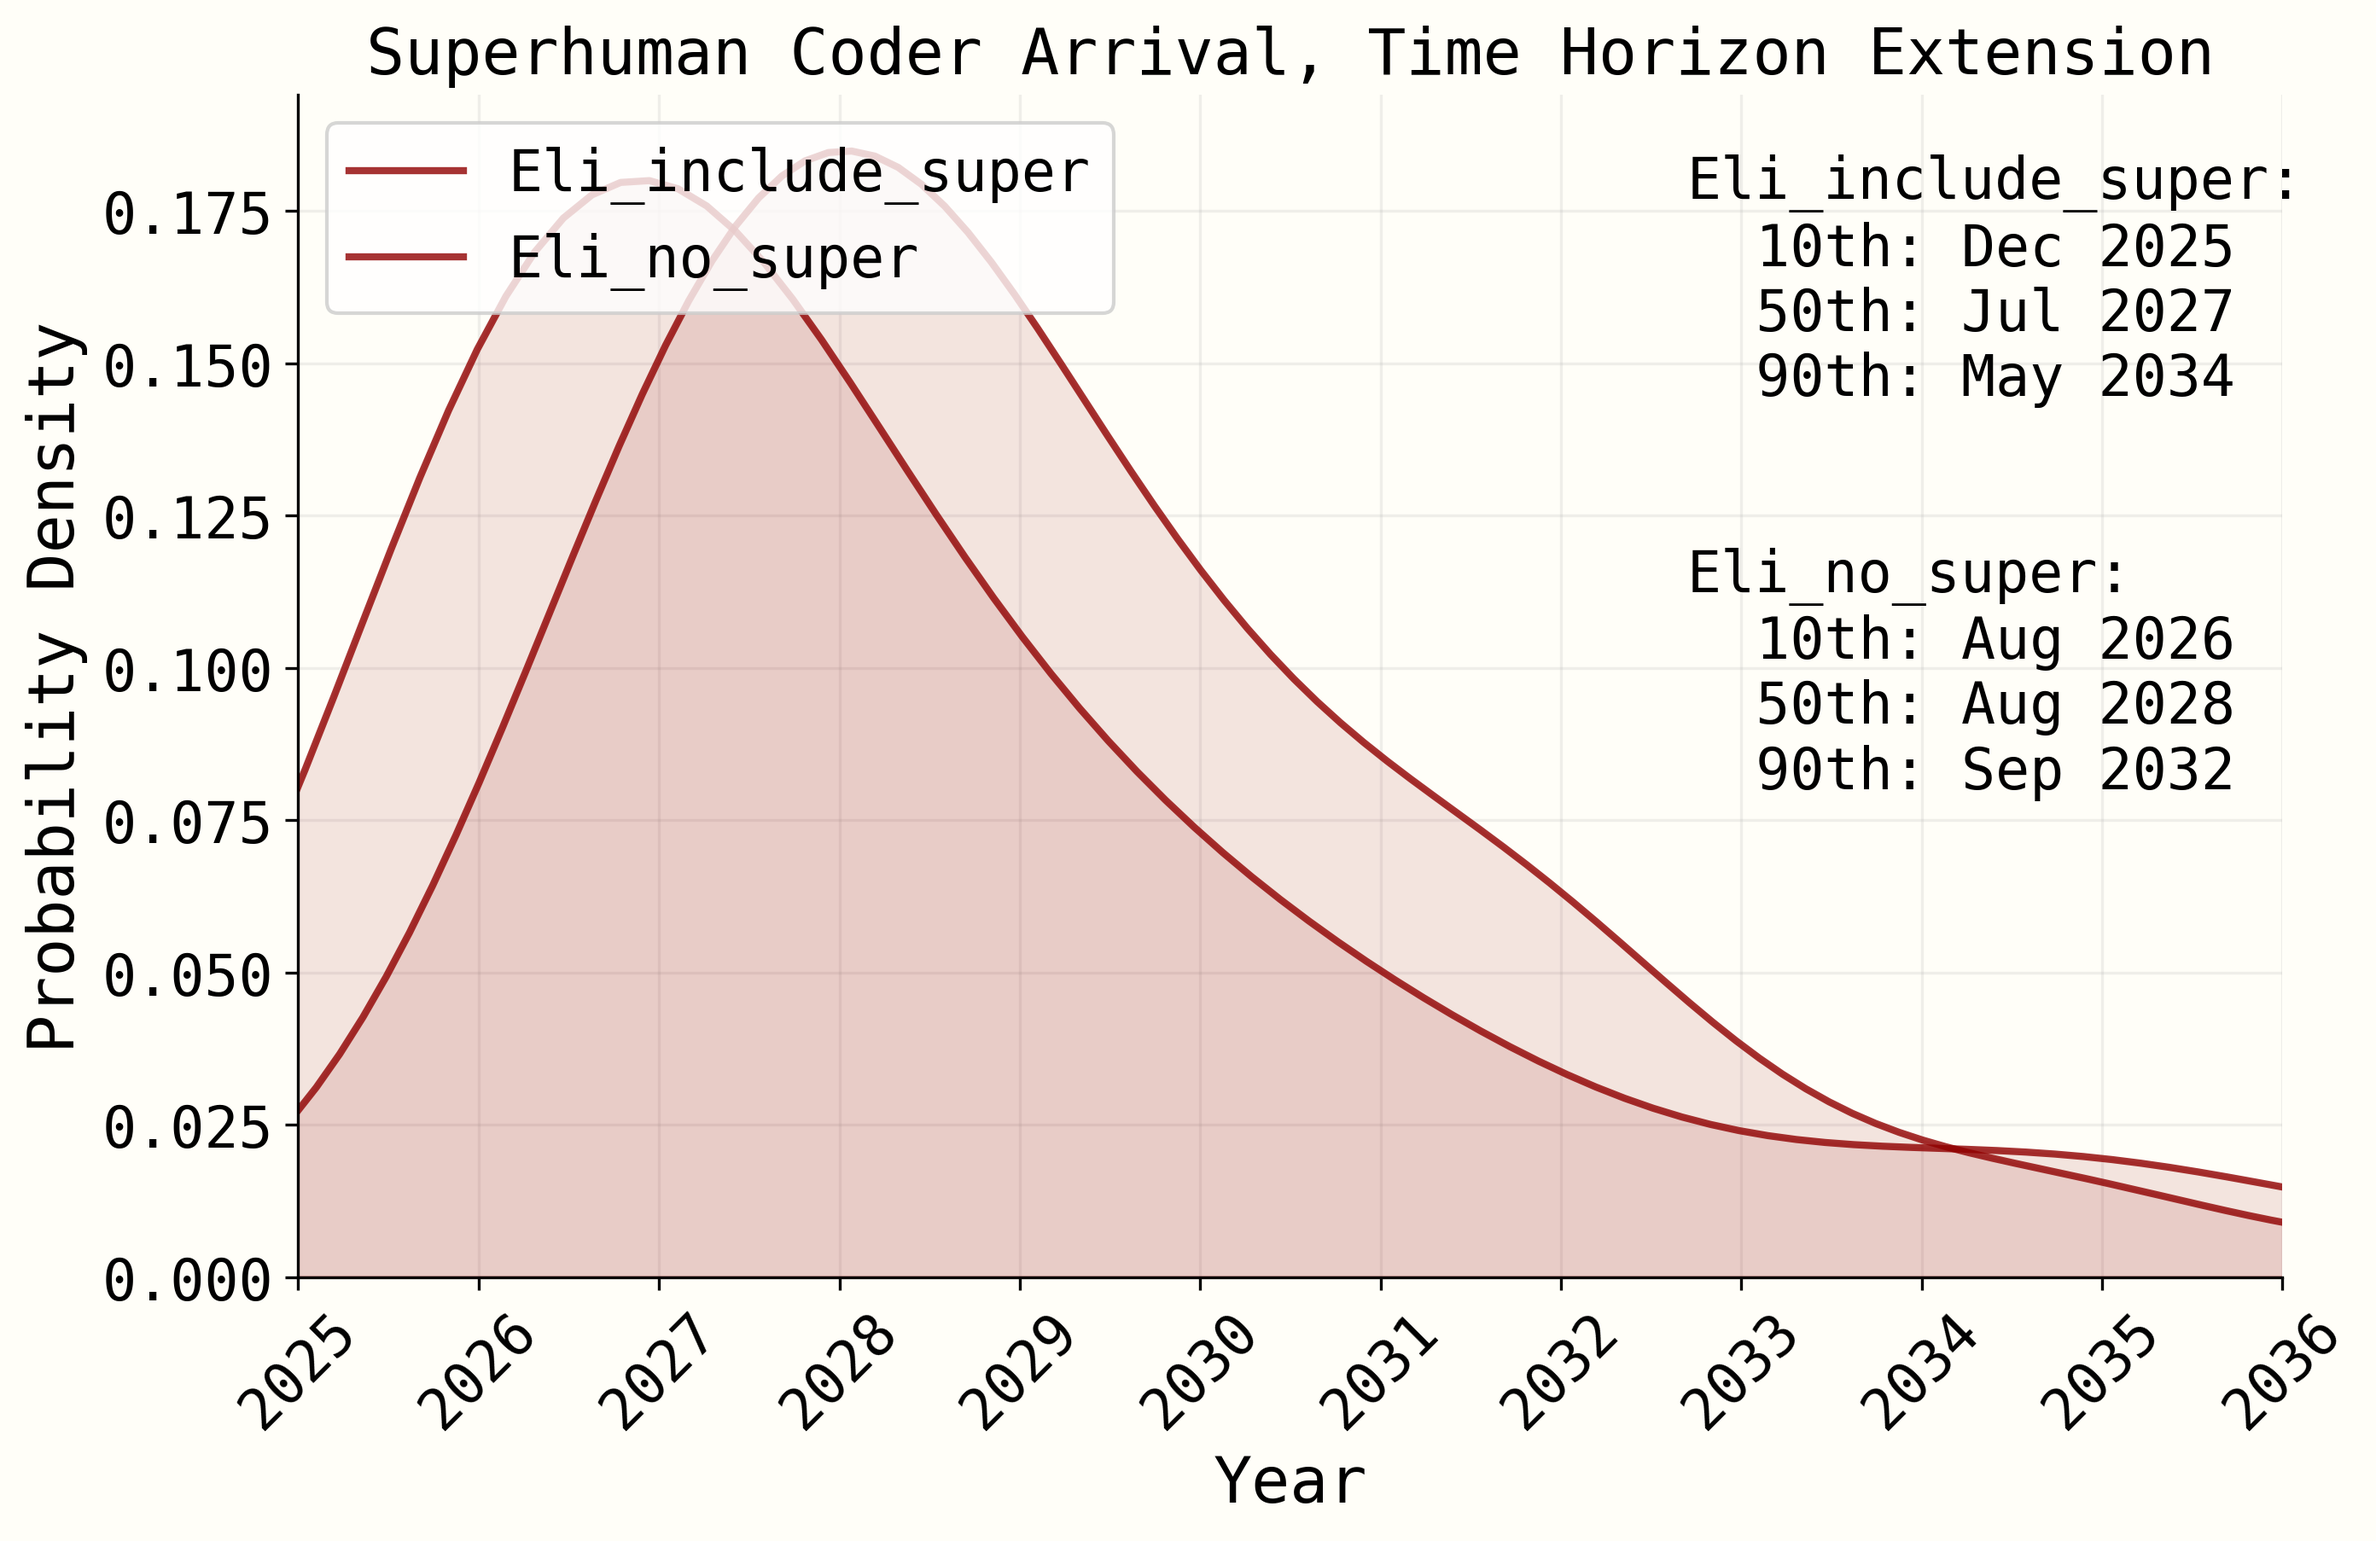
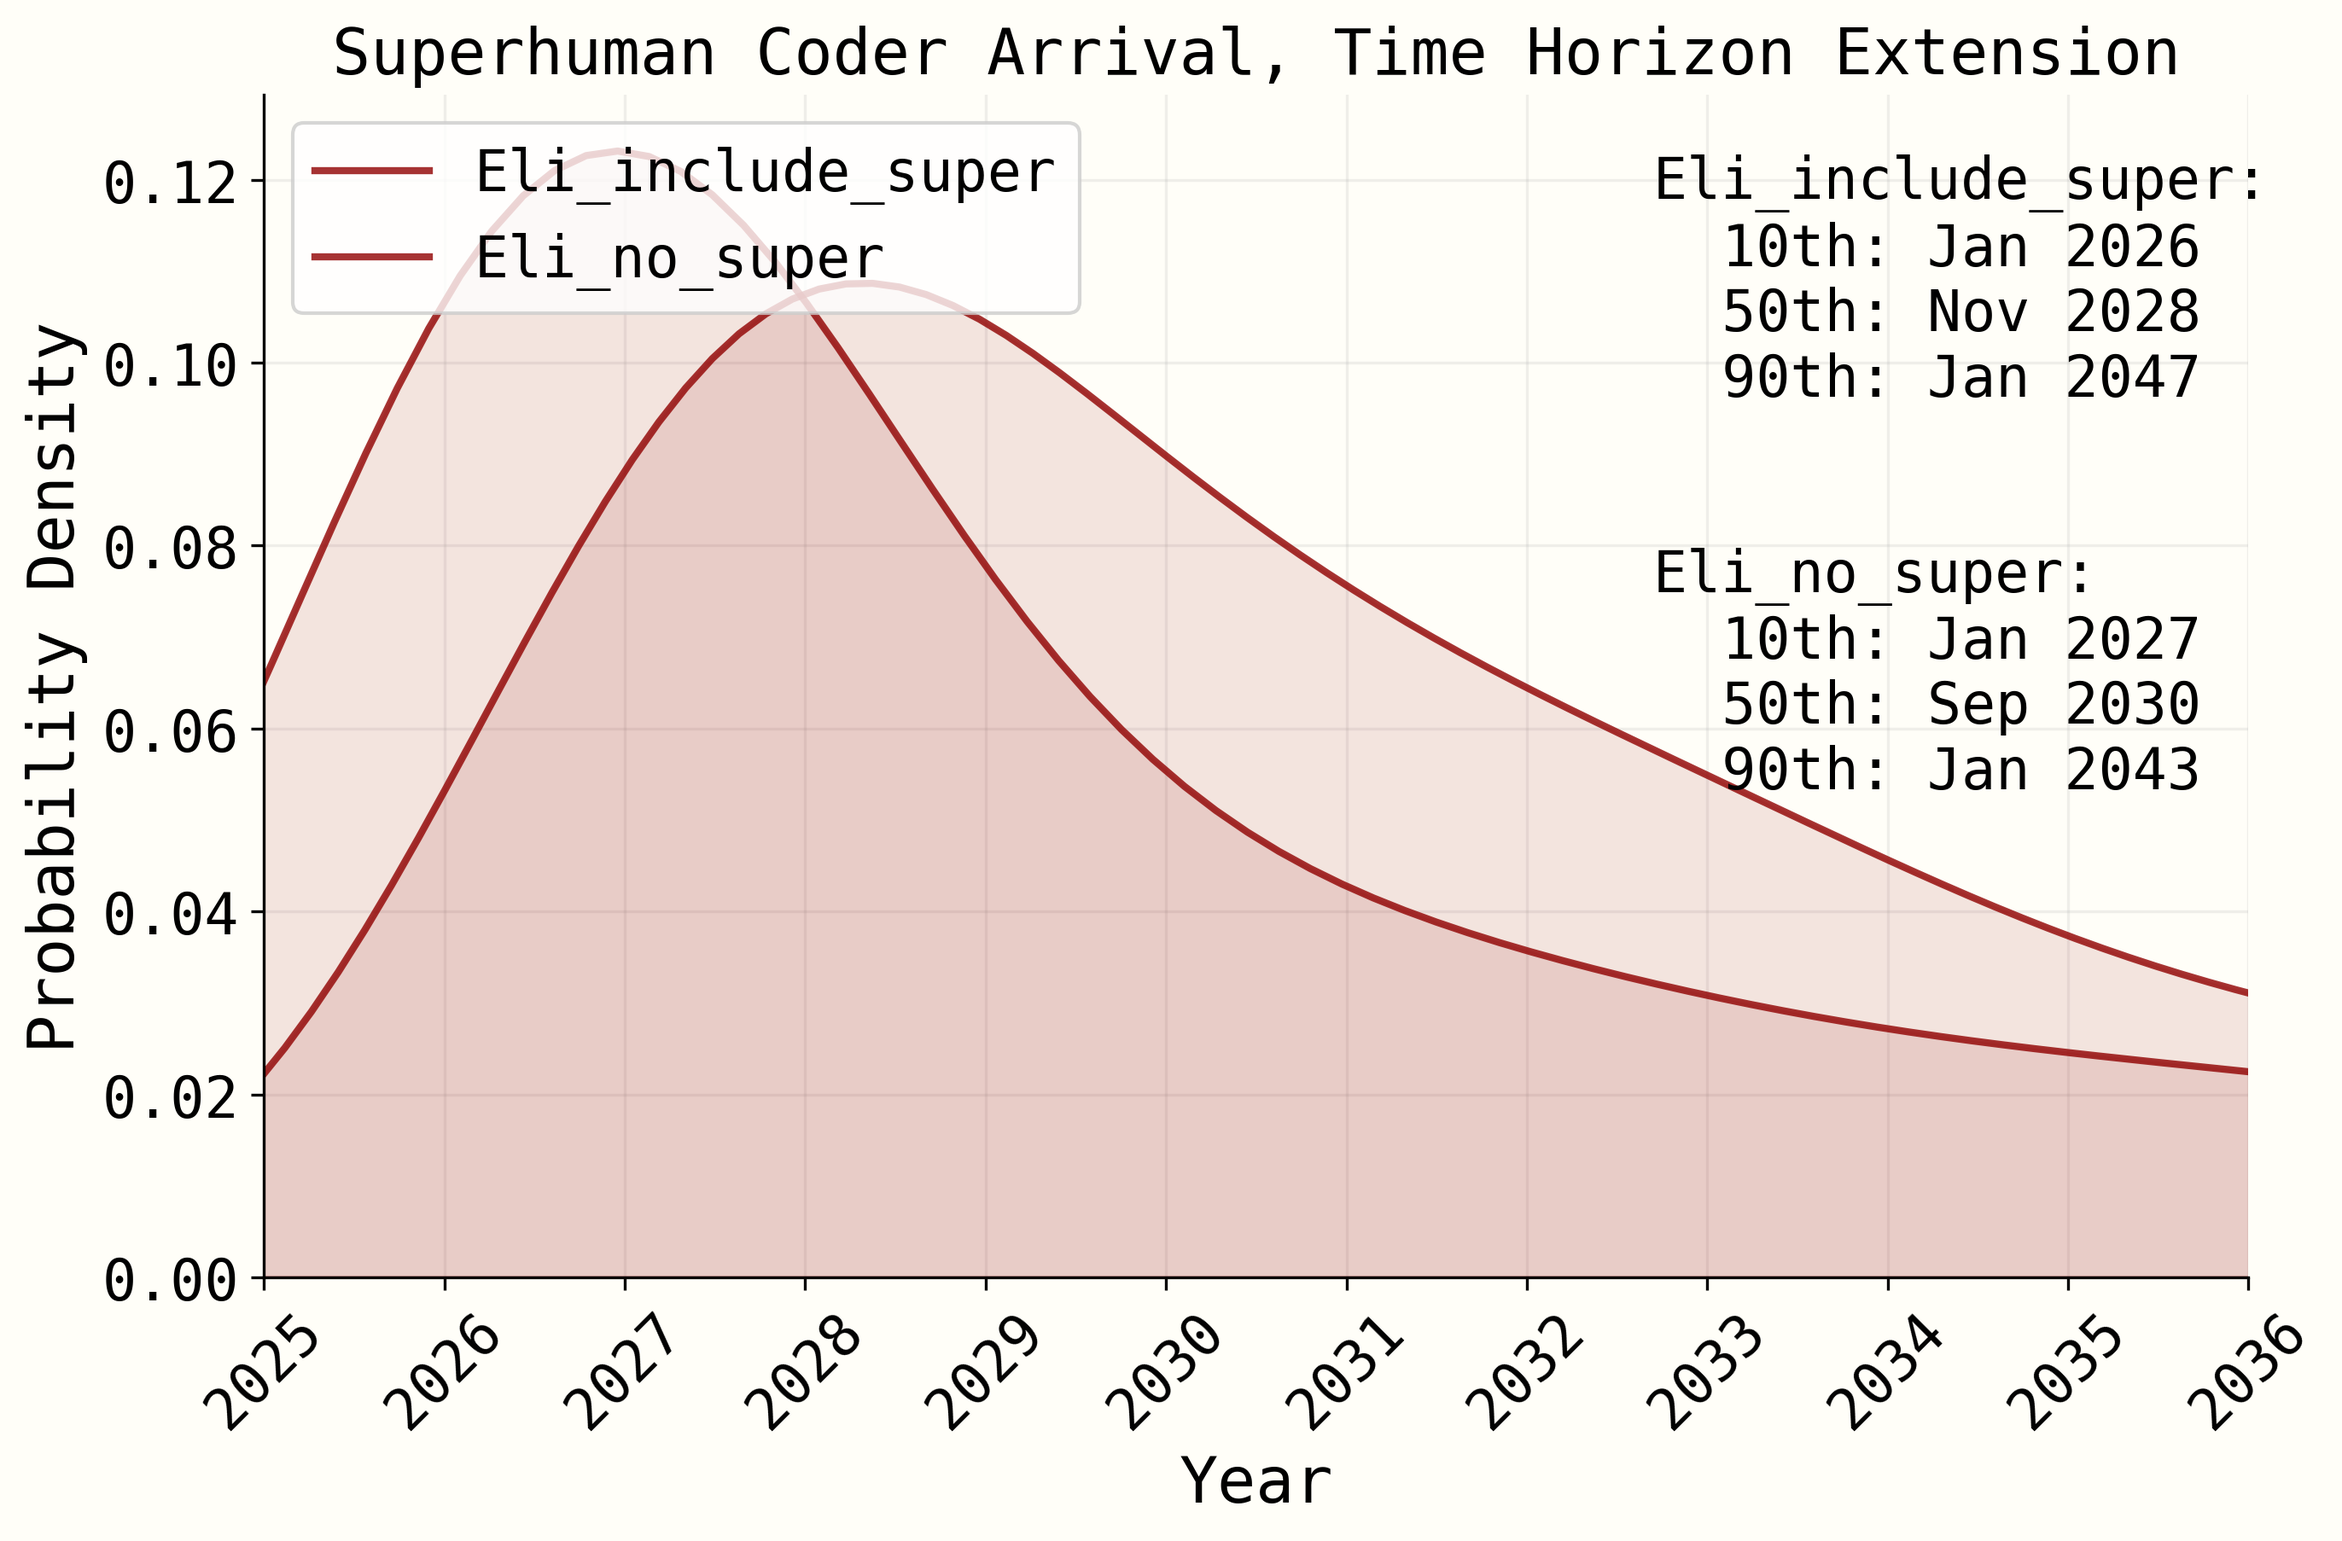
new software progress modeling for simple model

diff --git a/timelines/forecasting_timelines.py b/timelines/forecasting_timelines.py
@@ -227,29 +227,57 @@ def run_single_scenario(samples: dict, params: dict, forecaster_config: dict) ->
     # Get software progress share from samples
     software_progress_share = samples["initial_software_progress_share"]
     
+    # Initialize labor-based research variables
+    labor_pool = forecaster_config["simulation"]["initial_labor_pool"]
+    research_stock = forecaster_config["simulation"]["initial_research_stock"]
+    labor_power = forecaster_config["simulation"]["labor_power"]
+    
     for i in tqdm(range(len(samples["T_t"])), desc="Running simulations", leave=False):
         # Initialize simulation at current time
         t = params["t_0"] + samples["t_sat"][i]/12  # Convert months to years
         g_t = 0
         
+        # Reset labor and research variables for each simulation
+        current_labor_pool = labor_pool
+        current_research_stock = research_stock
+        
         # Run timesteps
         max_time = 2050.0  # Maximum time to simulate to
         for _ in range(params["n_steps"]):
-            # Calculate software progress rate - add 1 to both rates since they're now lognormal offsets
-            v_software = (1 + samples["v_software_sat"][i]) * ((1 + samples["v_software_SC"][i])/(1 + samples["v_software_sat"][i])) ** (g_t / g_SC[i])
+            # Calculate progress fraction
+            progress_fraction = g_t / g_SC[i]
             
-            # adjust software rate if human alg progress has decreased, in betweene
-            if t >= 2029:
-                only_multiplier = v_software * 0.5
-                only_additive = v_software - 0.5
-                # geometric mean of only_multiplier and only_additive, aggregating between extremes of how AIs/humans could complement
-                v_software = np.sqrt(only_multiplier * only_additive)
+            # Calculate software progress rate based on intermediate speedup (interpolate between present and SC rates)
+            software_prog_multiplier = (1 + samples["v_software_sat"][i]) * ((1 + samples["v_software_SC"][i])/(1 + samples["v_software_sat"][i])) ** progress_fraction
+
+            # Convert annual growth rate to daily rate for the time step
+            daily_growth_rate = (1 + forecaster_config["simulation"]["labor_growth_rate"]) ** (params["dt"]/250) - 1
+
+            # Calculate new labor added this period
+            new_labor = current_labor_pool * daily_growth_rate
+            current_labor_pool += new_labor
+            
+            # Calculate research contribution on a yearly basis, then divide
+            research_contribution = ((((current_labor_pool+1) ** labor_power)-1) * software_prog_multiplier) / (250/params["dt"])
+
+            # Add to research stock
+            new_research_stock = current_research_stock + research_contribution
+            
+            # Calculate actual growth rate (annualized)
+            actual_growth = (new_research_stock / current_research_stock) ** (250/params["dt"]) - 1
+
+            if g_t == 0:
+                baseline_growth = actual_growth
+            
+            # Calculate adjustment factor based on growth rate ratio
+            # Using log ratio to properly account for compound growth
+            growth_ratio = np.log(1 + actual_growth) / np.log(1 + baseline_growth)
 
             # Get compute progress rate
             v_compute = get_v_compute(t)
             
             # Calculate total progress rate using weighted average
-            v_t = software_progress_share[i] * v_software + (1 - software_progress_share[i]) * v_compute
+            v_t = software_progress_share[i] * growth_ratio + (1 - software_progress_share[i]) * v_compute
             
             # Update progress (dt is in days, convert to months by dividing by ~30.5)
             g_t += v_t * (params["dt"]/30.5)
@@ -266,6 +294,9 @@ def run_single_scenario(samples: dict, params: dict, forecaster_config: dict) ->
             if t >= max_time:
                 successful_times.append(max_time)
                 break
+            
+            # Update research stock
+            current_research_stock = new_research_stock
             
     return successful_times
 

diff --git a/timelines/simple_forecasting_timelines.py b/timelines/simple_forecasting_timelines.py
@@ -242,15 +242,16 @@ def calculate_sc_arrival_year(samples: dict, current_horizon: float, dt: float, 
             # Calculate software speedup based on intermediate speedup s(interpolate between present and SC rates)
             software_prog_multiplier = (1 + samples["present_prog_multiplier"][i]) * ((1 + samples["SC_prog_multiplier"][i])/(1 + samples["present_prog_multiplier"][i])) ** progress_fraction
 
-            # Calculate new labor added this period
             # Convert annual growth rate to daily rate for the time step
             daily_growth_rate = (1 + simulation_config["labor_growth_rate"]) ** (dt/250) - 1
+
+            # Calculate new labor added this period
             new_labor = labor_pool * daily_growth_rate
             labor_pool += new_labor
             
-            # Calculate research contribution from new labor
-            research_contribution = ((new_labor ** labor_power) * software_prog_multiplier) / (250/dt)
-            
+            # Calculate research contribution on a yearly basis, then divide
+            research_contribution = ((((labor_pool+1) ** labor_power)-1) * software_prog_multiplier) / (250/dt)
+
             # Add to research stock
             new_research_stock = research_stock + research_contribution
             
@@ -264,9 +265,6 @@ def calculate_sc_arrival_year(samples: dict, current_horizon: float, dt: float, 
             # Using log ratio to properly account for compound growth
             growth_ratio = np.log(1 + actual_growth) / np.log(1 + baseline_growth)
 
-            # Update research stock
-            research_stock = new_research_stock
-            
             # Get compute rate for current time (not affected by intermediate speedups)
             compute_rate = get_compute_rate(time, compute_decrease_date)
             # Total rate is weighted average of software and compute rates
@@ -275,14 +273,10 @@ def calculate_sc_arrival_year(samples: dict, current_horizon: float, dt: float, 
             # Update progress and time
             progress += dt_in_months * total_rate
             time += dt_in_months / 12  # Convert months to years
+            
+            # Update research stock
+            research_stock = new_research_stock
 
-
-            if progress > software_prog_multiplier and not printed:
-                printed=True
-                print("interesting")
-            # import pdb; pdb.set_trace()
-
-        
         # If we hit the time limit, set to max time
         if time >= max_time:
             time = max_time 
